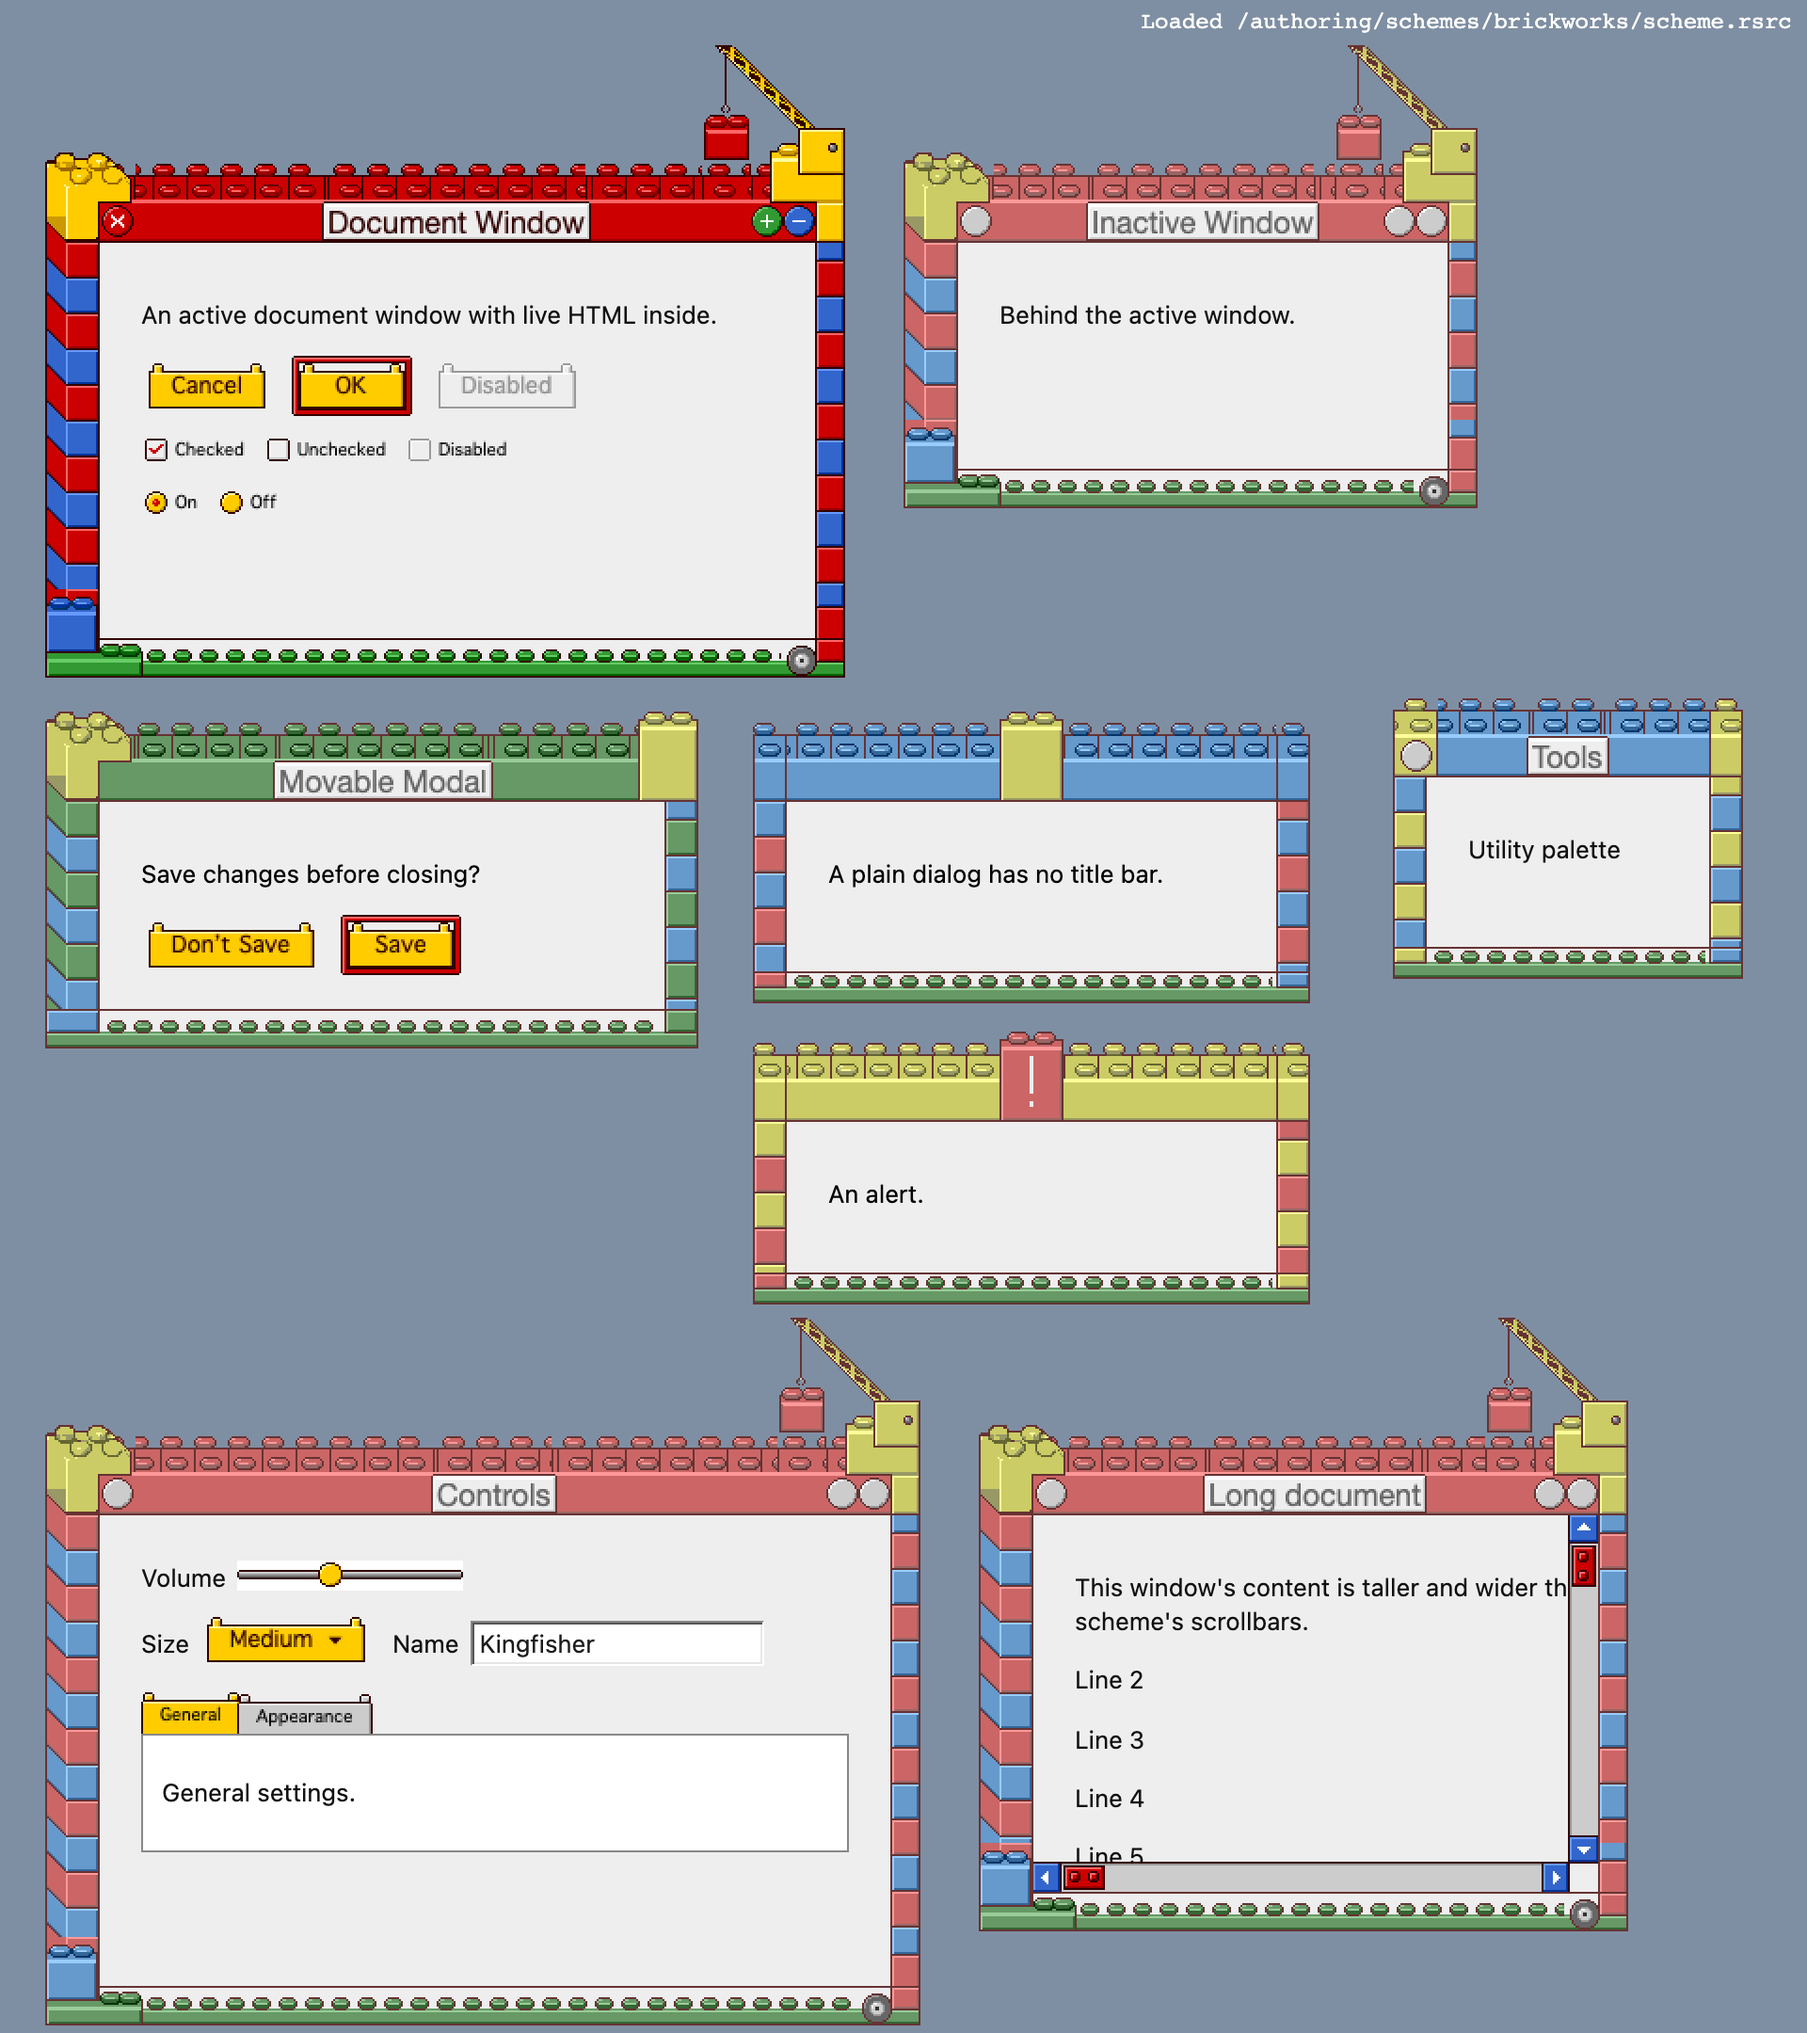
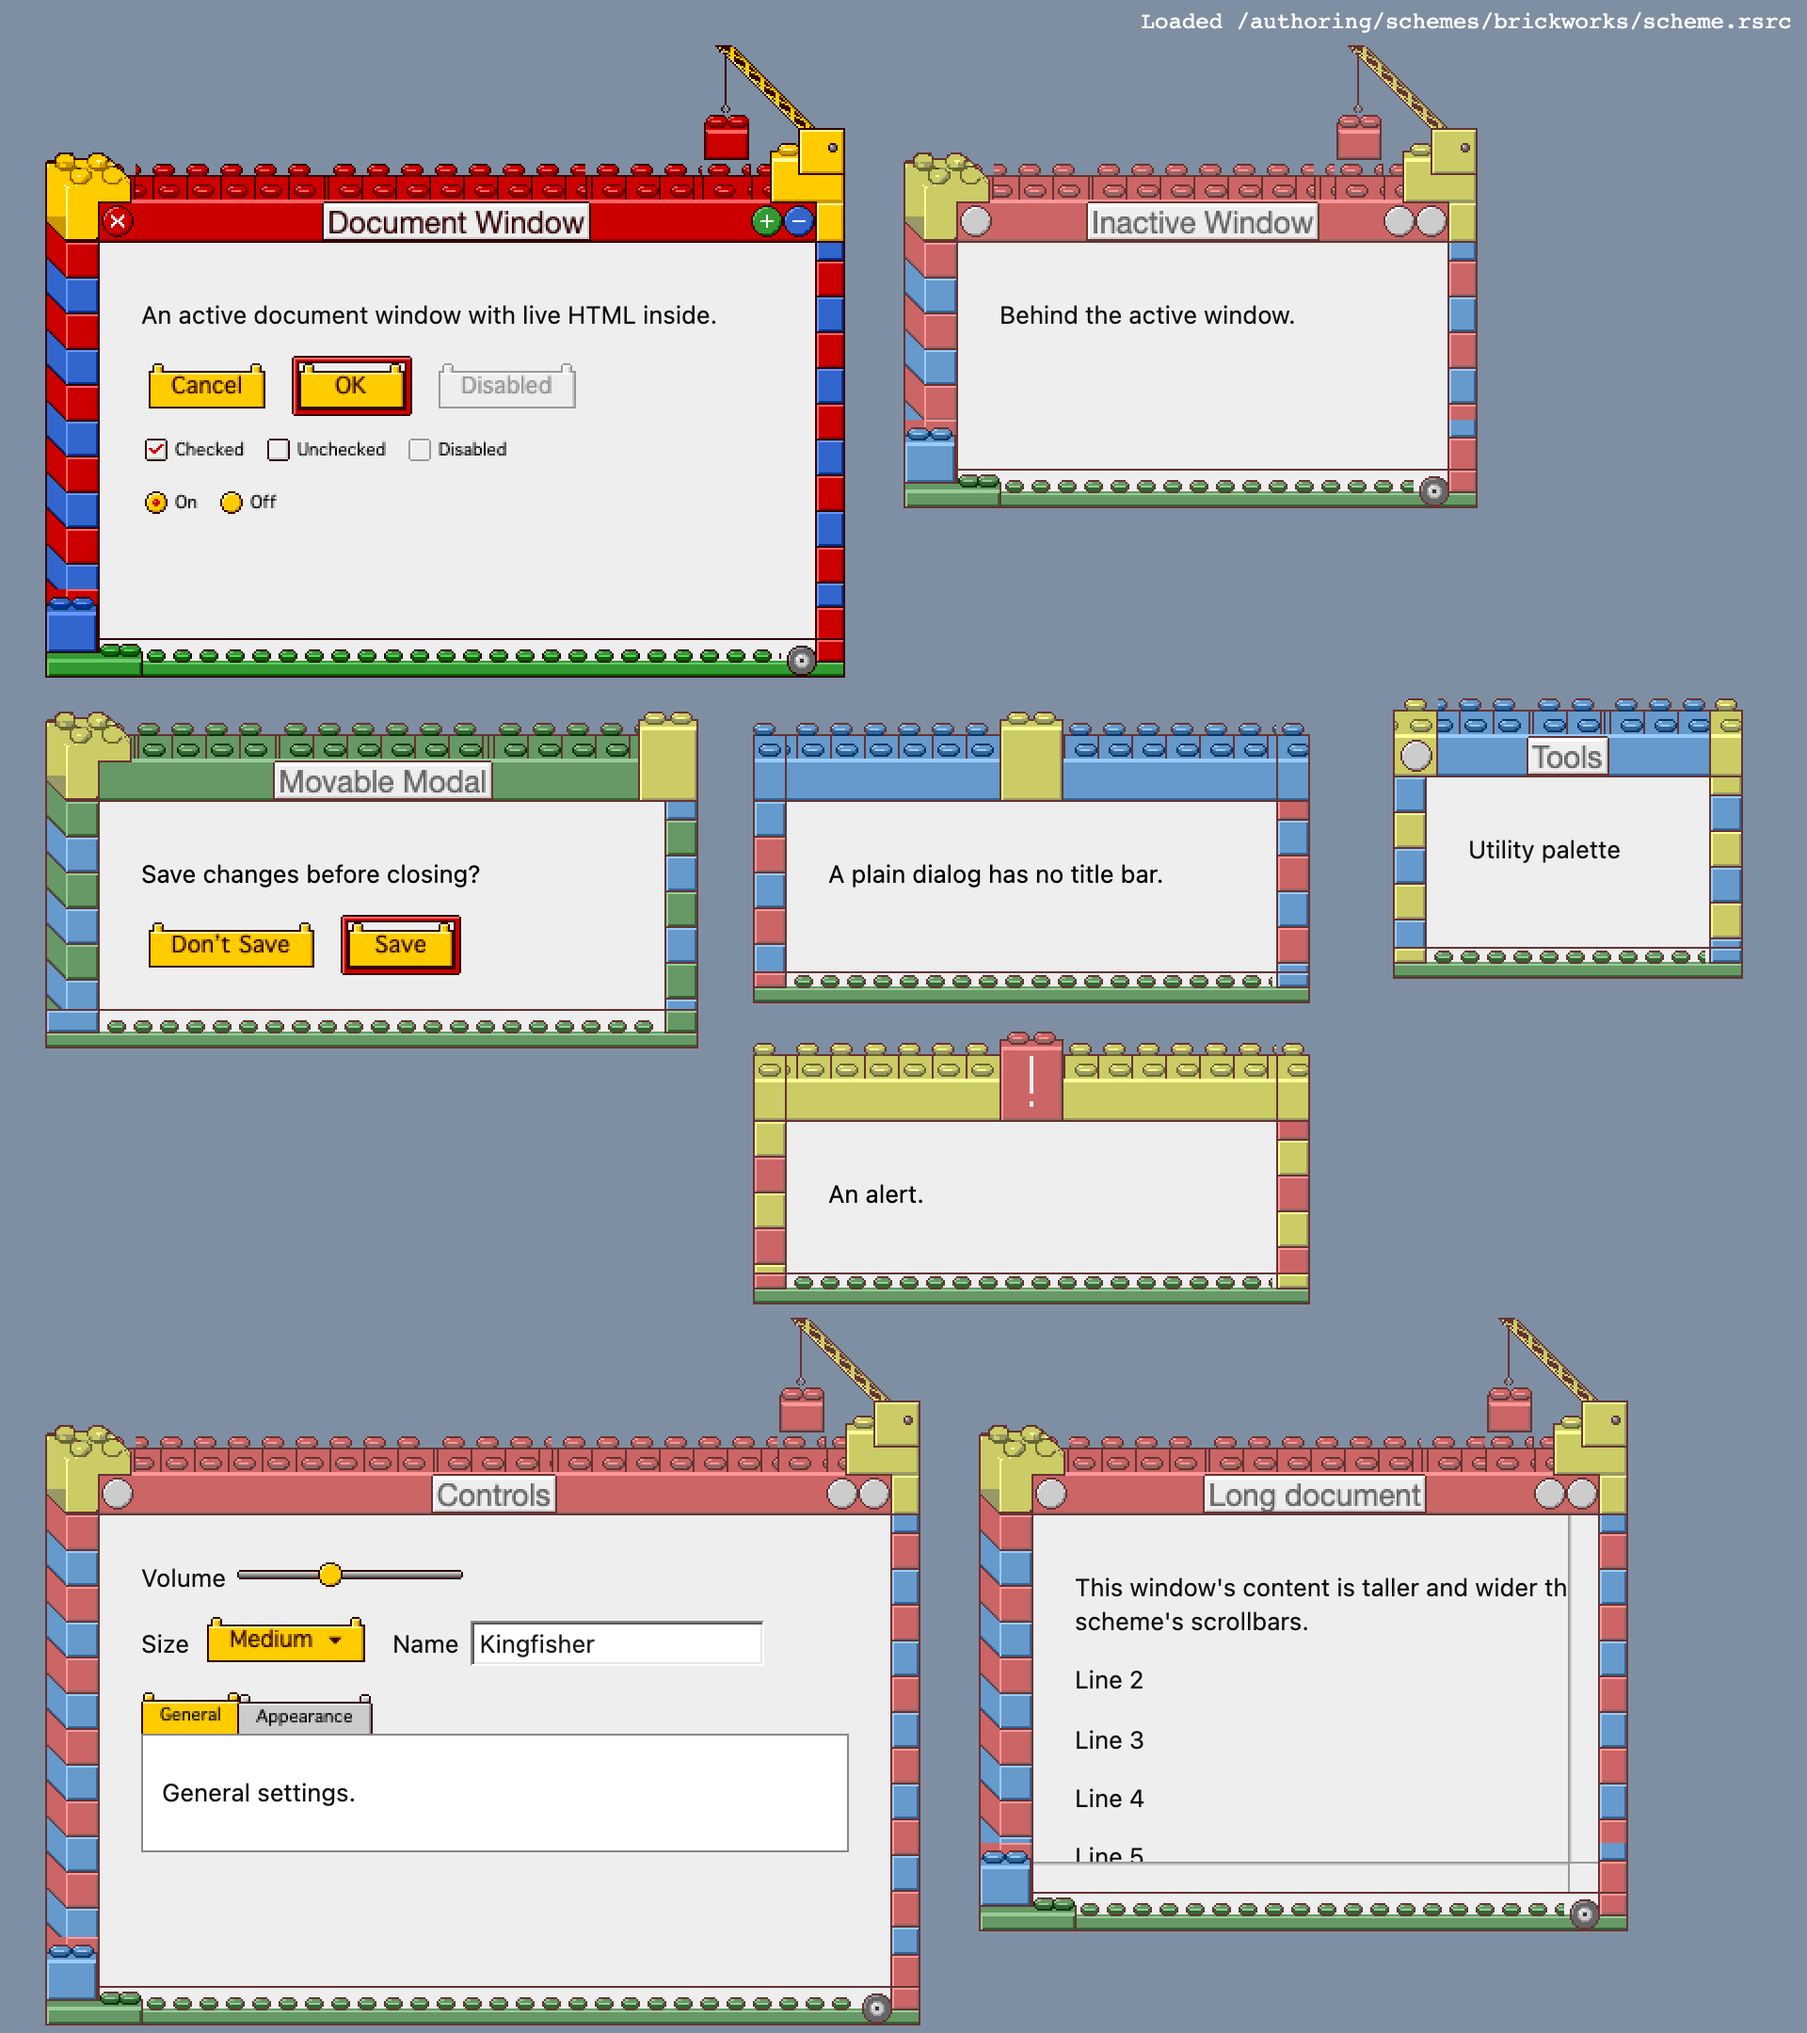
docs(authoring): pick up main's slider, scroll-bar and disclosure fixes
Main fixed three runtime findings from this branch: inactive window
scroll bars (#594/#605), disclosure ids (#595/#604) and the slider
white box on patterned bodies (#596/#603/#606). The guide's slider note
and R23 now describe the fixed behaviour, LEARNINGS marks the old
runtime findings superseded, and the five previews are recaptured
(inactive windows' scroll bars, Brickworks' slider) and optipng'd.

Changed region(s): [[0.5625, 0.7444, 0.9062, 0.9306]]

diff --git a/docs/authoring-a-scheme.md b/docs/authoring-a-scheme.md
@@ -562,8 +562,8 @@ pixel.
   across the bar, and the pressed track's middle must match the normal one.
 - **Sliders:** the thumb is copied over the track, so paint the track under
   the thumb's edges and cut the mask back, so its edge blends with real track
-  pixels. The web clears a slider's rect to white first, so on a patterned
-  body it sits in a white box ([R23](./authoring-exotic-frames.md#4-window-body-textures-r21r23)).
+  pixels. Pixels outside the track and thumb masks stay transparent, so a
+  patterned body shows through around a slider (#596; [R23](./authoring-exotic-frames.md#4-window-body-textures-r21r23)).
 - **Progress:** keep the frame's `cinf` corner equal to its side, or columns
   between the side band and the fill stay unpainted. The barber-pole steps
   are one pattern shifted by the same amount each step, so the cycle loops.

diff --git a/docs/authoring-exotic-frames.md b/docs/authoring-exotic-frames.md
@@ -415,9 +415,10 @@ there** (`src/renderWindow.ts:477-548`).
   background `-9774`, which no web path draws).
 - A busy body pattern sits behind live DOM text. Keep contrast low (a stud
   baseplate tint, faint stone).
-- The web's slider clears its control area to white before drawing, so a
-  slider on a patterned body sits in a white box (Brickworks). Other controls
-  draw over the pattern.
+- Sliders, like the other controls, leave everything outside their track and
+  thumb masks transparent, so the body pattern shows through. (Before #596
+  the web cleared a slider's area to white, which left a white box on
+  Brickworks' baseplate.)
 
 ---
 

diff --git a/LEARNINGS.md b/LEARNINGS.md
@@ -145,6 +145,8 @@ note, not a check. Runtime findings, not fixed here:
 - `composeDisclosure`'s id fallback maps right → -10102 and down → -10103,
   ignoring state. In the corpus -10111 is the normal right triangle, so
   Windows 95 draws the same box for all six states.
+*(Superseded 2026-10-31: both fixed on main, inactive scroll bars in #594/#605
+and disclosure ids in #595/#604; the slider white box in #596/#603.)*
 
 Not yet done: text fields (CSS only), Finder icons, cursors, sounds, the About box, accent colours.
 *(Superseded 2026-10-31: cursors, WindowShade sounds and the about box are
